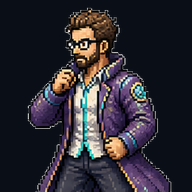
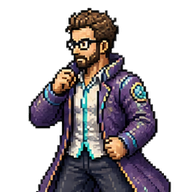
Fix match HUD portrait sizing

diff --git a/fighter-rebuild/src/game/hud.ts b/fighter-rebuild/src/game/hud.ts
@@ -18,6 +18,7 @@ export interface MatchHudState {
 }
 
 export class MatchHud {
+  private static readonly PortraitSize = 52;
   private readonly graphics: Phaser.GameObjects.Graphics;
   private readonly playerPortrait: Phaser.GameObjects.Image;
   private readonly cpuPortrait: Phaser.GameObjects.Image;
@@ -29,8 +30,8 @@ export class MatchHud {
 
   public constructor(private readonly scene: Phaser.Scene) {
     this.graphics = scene.add.graphics().setDepth(100).setScrollFactor(0);
-    this.playerPortrait = scene.add.image(42, 44, '').setDisplaySize(58, 58).setDepth(101).setScrollFactor(0);
-    this.cpuPortrait = scene.add.image(918, 44, '').setDisplaySize(58, 58).setDepth(101).setScrollFactor(0);
+    this.playerPortrait = scene.add.image(36, 44, '').setDepth(101).setScrollFactor(0);
+    this.cpuPortrait = scene.add.image(924, 44, '').setDepth(101).setScrollFactor(0);
     this.timerText = scene.add
       .text(480, 34, '60', {
         align: 'center',
@@ -85,6 +86,8 @@ export class MatchHud {
   public update(state: MatchHudState): void {
     this.playerPortrait.setTexture(state.playerPortraitKey);
     this.cpuPortrait.setTexture(state.cpuPortraitKey);
+    this.playerPortrait.setDisplaySize(MatchHud.PortraitSize, MatchHud.PortraitSize);
+    this.cpuPortrait.setDisplaySize(MatchHud.PortraitSize, MatchHud.PortraitSize);
     this.timerText.setText(String(Math.max(0, Math.ceil(state.timerSeconds))).padStart(2, '0'));
     this.drawBars(state);
     this.debugText

diff --git a/fighter-rebuild/scripts/slice-high-detail-sheets.py b/fighter-rebuild/scripts/slice-high-detail-sheets.py
@@ -249,7 +249,7 @@ def build_strip(cells: list[Image.Image], pose_names: Iterable[str]) -> Image.Im
 
 def build_portrait(idle: Image.Image) -> Image.Image:
     crop = idle.crop((64, 12, 256, 204))
-    portrait = Image.new("RGBA", (192, 192), (10, 14, 22, 255))
+    portrait = Image.new("RGBA", (192, 192), (255, 255, 255, 0))
     portrait.alpha_composite(crop, (0, 0))
     return portrait
 